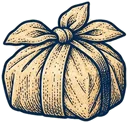
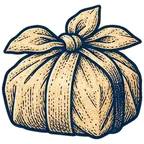
feat(saeckel): draw every sign of a pouch sharp from its own master

diff --git a/src/saeckel/look.test.ts b/src/saeckel/look.test.ts
@@ -265,7 +265,7 @@ async function drawnPages(): Promise<[string, number, string][]> {
 // The picture of each sign, copied from the prototype PouchEditMobile on purpose: the test
 // must not share the set with the code.
 const SIGN_FILES: [string, string][] = [
-  ['pouch', 'emblem-saeckel-small'],
+  ['pouch', 'icon-pouch'],
   ['cart', 'icon-cart'],
   ['basket', 'icon-basket'],
   ['hearth', 'icon-hearth'],
@@ -444,6 +444,8 @@ describe('the pages of Säckel', () => {
     for (const address of folderFiles()) {
       assert.equal(await served(address), 200, address);
       if (address === '/saeckel/static/fonts/OFL.txt') continue;
+      // The emblem is named by the banner of Hof (src/main.test.ts), not by a page of Säckel.
+      if (address === '/saeckel/static/img/emblem-saeckel-small.webp') continue;
       assert.ok(named.has(address), `nothing names ${address}`);
     }
   });
@@ -1392,12 +1394,35 @@ describe('the signs, the money and the storeroom of the column', () => {
     ].map((match) => match[1]!);
     assert.deepEqual(pictures, [
       ...SIGN_FILES.map(([, file]) => asset(`img/${file}.webp`)),
-      asset('img/emblem-saeckel-small.webp'),
+      asset('img/icon-pouch.webp'),
     ]);
-    // The default sign has its sharper copy for dense screens.
-    assert.ok(
-      page.includes(`srcset="${asset('img/emblem-saeckel-small@2x.webp')} 2x"`),
-      'the default sign at 2x',
+    // M12.8: one file for every sign, the default one too; no sign names a second file, and the
+    // emblem of Säckel is no sign any more.
+    const signs = [...page.matchAll(/<img\s[^>]*\/img\/icon-[^>]*>/g)].map((match) => match[0]);
+    assert.equal(signs.length, SIGN_FILES.length + 2); // the unknown one and the open pouch
+    for (const sign of signs) assert.match(sign, /^<img src="[^"]*" alt="" draggable="false" \/>$/);
+    assert.ok(!page.includes('emblem-saeckel'));
+  });
+
+  // M12.8: a sign is drawn at most 48 px wide at 3x, so each file is 144 x 144 px, the bag of the
+  // default sign too; the emblem of Säckel in the banner of Hof (28 px) is 96 x 96 like its
+  // neighbours there. One file each: the 2x copy of the old default sign is gone.
+  test('M12.8: each sign a picture of 144 px, the emblem of the banner 96 px', () => {
+    const canvas = (file: string) => {
+      const data = readFileSync(join(STATIC, 'img', file));
+      assert.equal(data.toString('latin1', 0, 4), 'RIFF', file);
+      assert.equal(data.toString('latin1', 8, 16), 'WEBPVP8X', file);
+      return [data.readUIntLE(24, 3) + 1, data.readUIntLE(27, 3) + 1];
+    };
+    for (const [key, file] of SIGN_FILES) {
+      assert.equal(file, `icon-${key}`, key);
+      assert.deepEqual(canvas(`${file}.webp`), [144, 144], file);
+    }
+    assert.deepEqual(canvas('emblem-saeckel-small.webp'), [96, 96]);
+    const pictures = readdirSync(join(STATIC, 'img'));
+    assert.deepEqual(
+      pictures.filter((name) => /^(icon-|emblem-saeckel)/.test(name)).sort(),
+      [...SIGN_FILES.map(([, file]) => `${file}.webp`), 'emblem-saeckel-small.webp'].sort(),
     );
   });
 

diff --git a/src/saeckel/app.ts b/src/saeckel/app.ts
@@ -121,10 +121,11 @@ type Icon = keyof typeof ICONS;
 
 const DEFAULT_ICON: Icon = 'pouch';
 
-// The picture of each sign, a file of the static folder of Säckel; the default sign is the emblem
-// of Säckel. The name of a file comes from this set, never from the database or a form.
+// The picture of each sign, a file of the static folder of Säckel, 144 px for a box of 48 at 3x
+// (M12.8); the default sign is the bag of the emblem of Säckel, cut out on its own. The name of a
+// file comes from this set, never from the database or a form.
 const SIGN_FILES: Record<Icon, string> = {
-  pouch: 'emblem-saeckel-small',
+  pouch: 'icon-pouch',
   cart: 'icon-cart',
   basket: 'icon-basket',
   hearth: 'icon-hearth',
@@ -446,15 +447,7 @@ function blot(file: string, place: string) {
 // does not know. Decorative: the name of the pouch is said by the text beside it.
 function signPicture(stored: string) {
   const icon = parseIcon(stored) ?? DEFAULT_ICON;
-  if (icon !== DEFAULT_ICON) {
-    return html`<img src="${asset(`img/${SIGN_FILES[icon]}.webp`)}" alt="" draggable="false" />`;
-  }
-  return html`<img
-    src="${asset(`img/${SIGN_FILES[icon]}.webp`)}"
-    srcset="${asset(`img/${SIGN_FILES[icon]}@2x.webp`)} 2x"
-    alt=""
-    draggable="false"
-  />`;
+  return html`<img src="${asset(`img/${SIGN_FILES[icon]}.webp`)}" alt="" draggable="false" />`;
 }
 
 // The error of a form, under its field.

diff --git a/src/saeckel/app.test.ts b/src/saeckel/app.test.ts
@@ -1193,7 +1193,7 @@ describe('Кладовая on Мешки', () => {
       [...storeroom.matchAll(/<li>([\s\S]*?)<\/li>/g)].map((m) => m[1]!.trim()),
       [apples, oranges].map(
         (id) =>
-          `<a class="stored" href="/saeckel/pouches/${id}" ><img src="${saeckelStatic.url('img/emblem-saeckel-small.webp')}" srcset="${saeckelStatic.url('img/emblem-saeckel-small@2x.webp')} 2x" alt="" draggable="false" /><span>${id === apples ? 'Яблоки' : 'Апельсины'}</span></a > <form method="post" action="/saeckel/pouches/${id}/restore"> <button type="submit" class="btn">Вернуть</button> </form>`,
+          `<a class="stored" href="/saeckel/pouches/${id}" ><img src="${saeckelStatic.url('img/icon-pouch.webp')}" alt="" draggable="false" /><span>${id === apples ? 'Яблоки' : 'Апельсины'}</span></a > <form method="post" action="/saeckel/pouches/${id}/restore"> <button type="submit" class="btn">Вернуть</button> </form>`,
       ),
     );
     assert.ok(!page.includes('Старый Бориса'));
